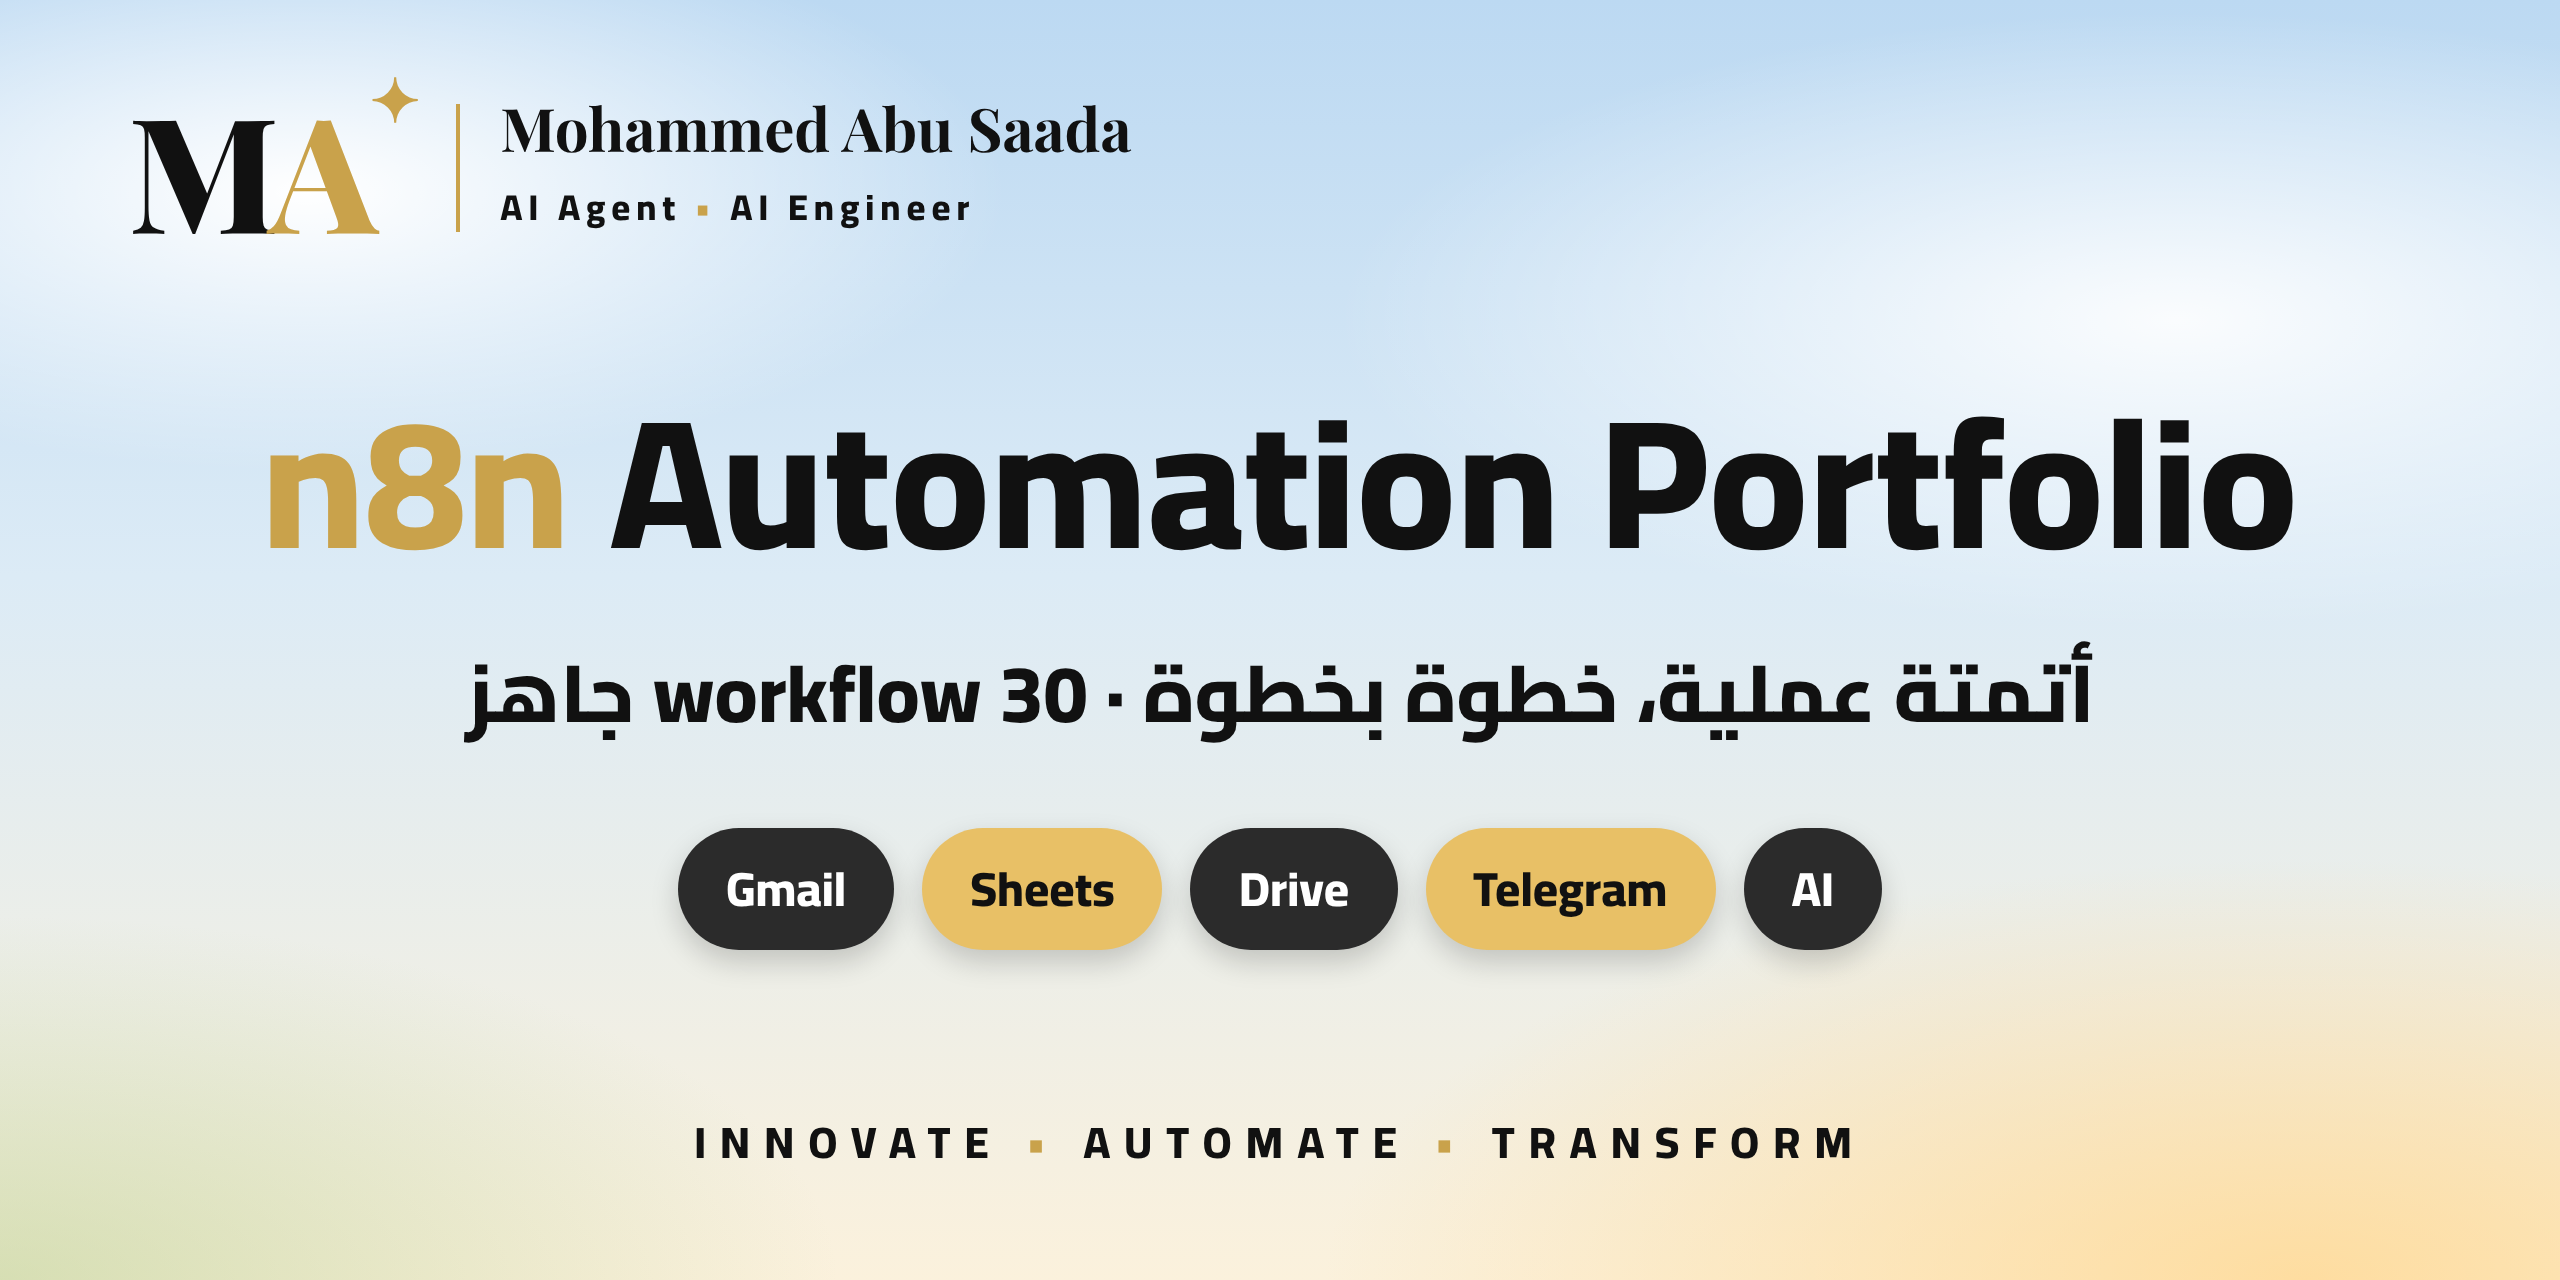
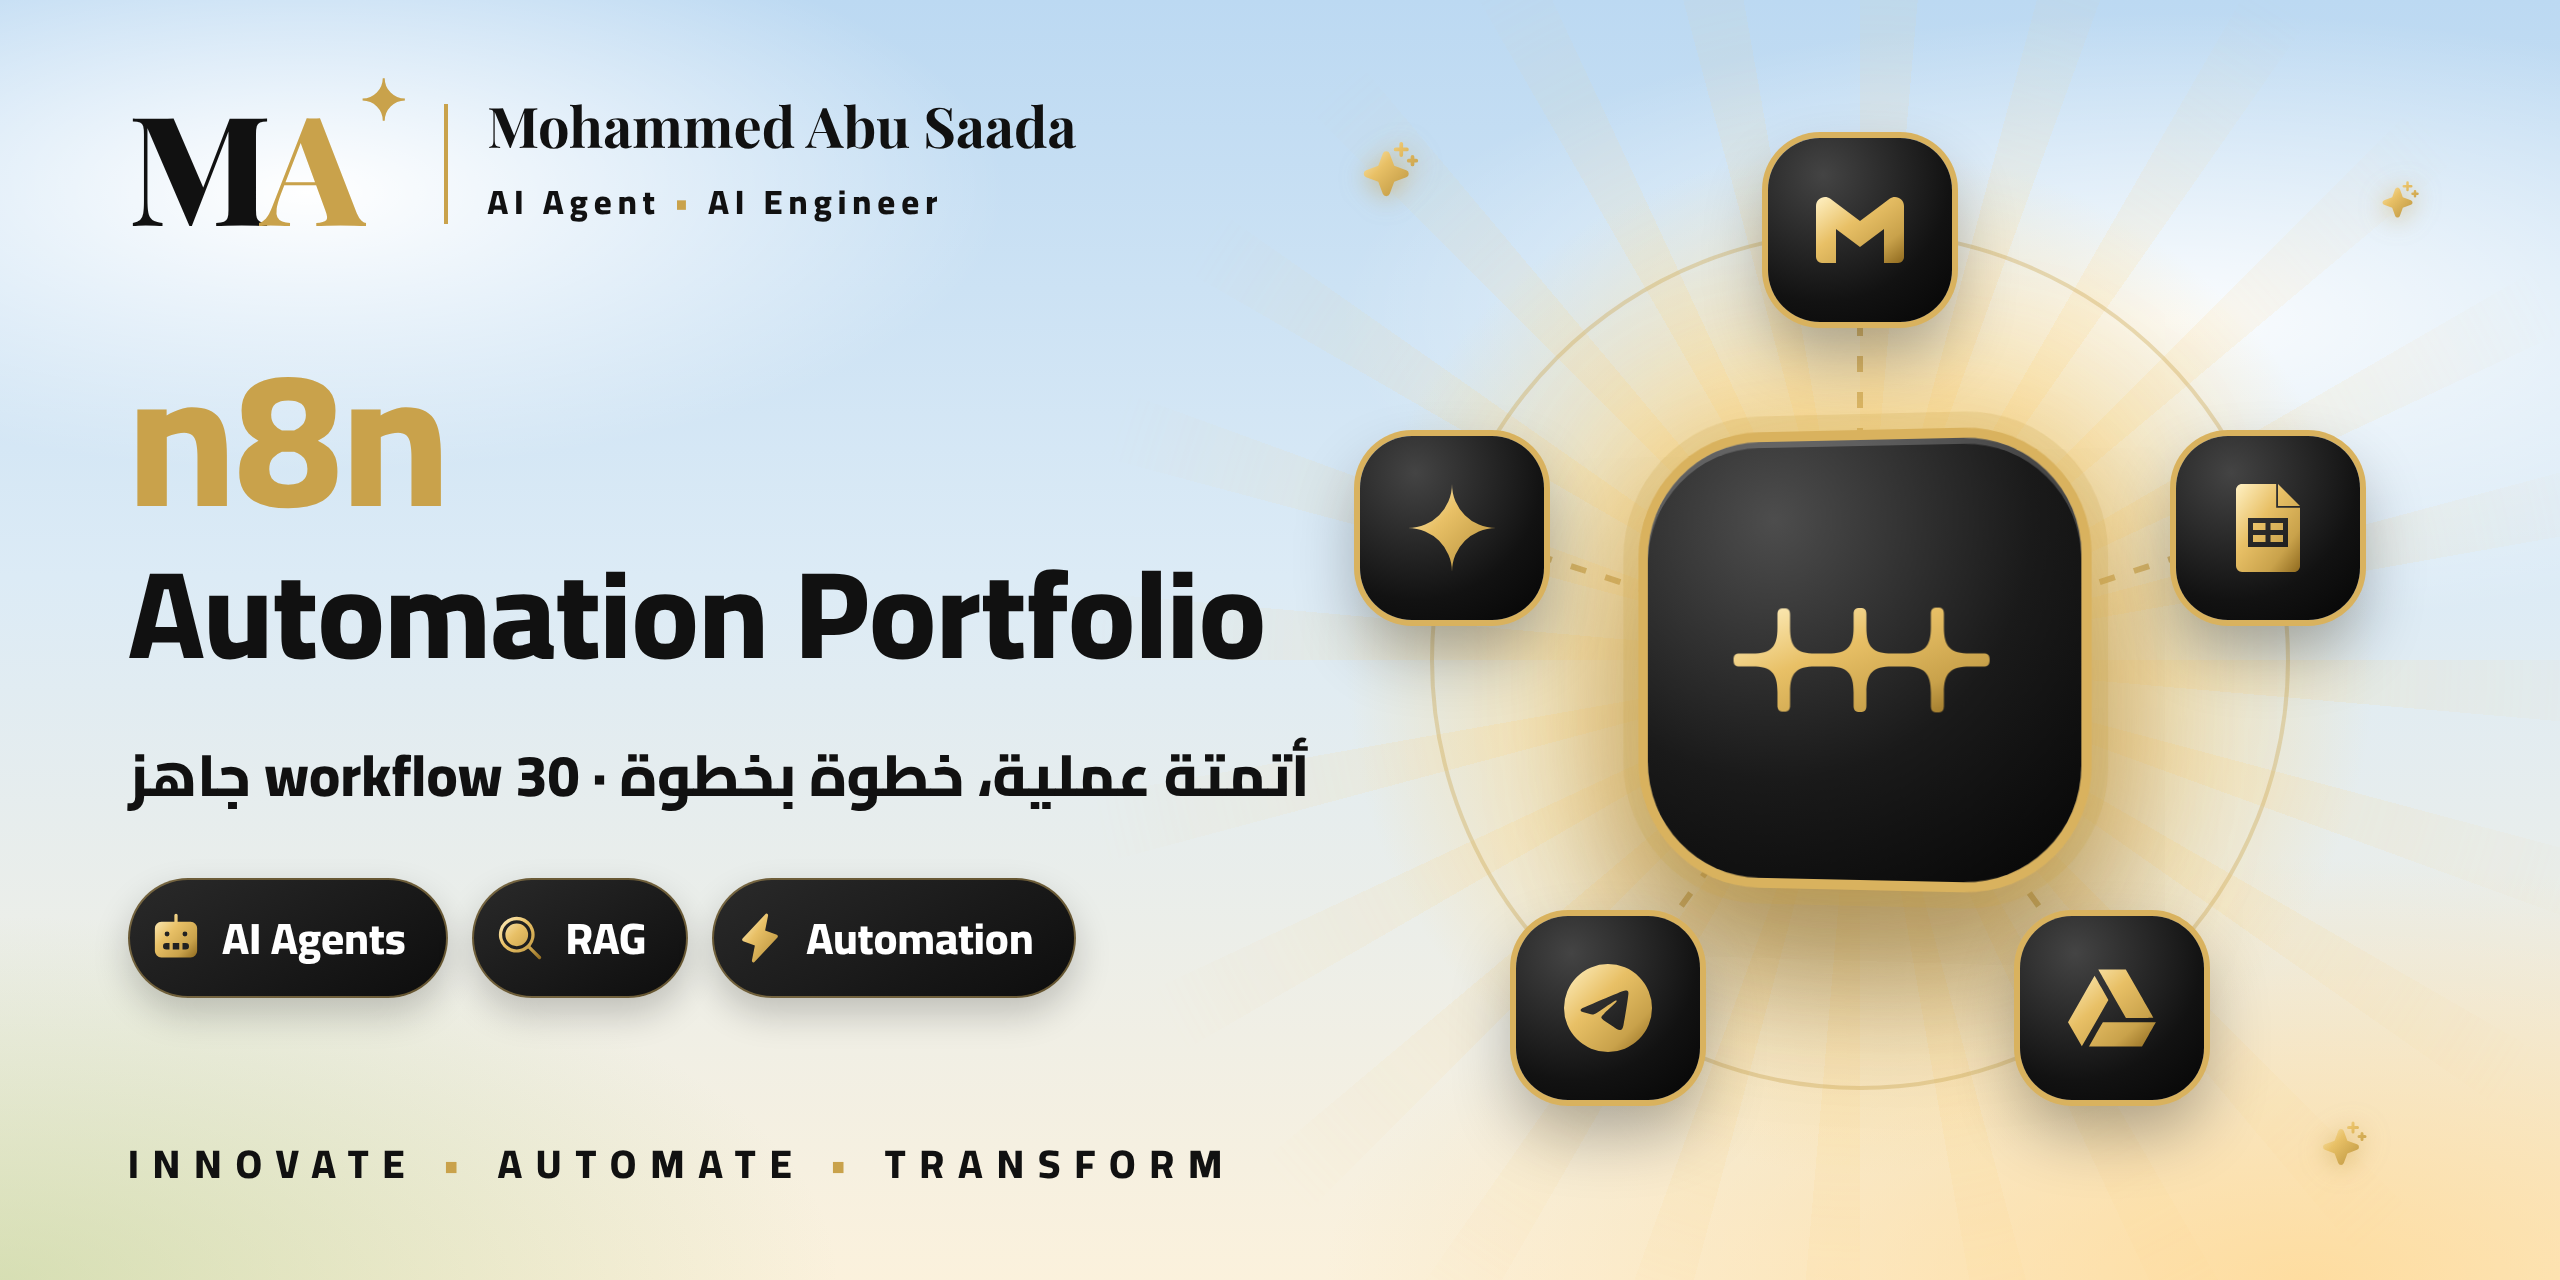
ترقية صور README: أيقونات ذهبية ومربعات لامعة
* Restyle README with brand colors (black and gold), new banner, stats and footer

Claude-Session: https://claude.ai/code/session_01B4v1sV8NWULi4LzHf7RuMU

* Regenerate showcase GIF with brand colors (sky, black, gold) and bundle Cairo font

Claude-Session: https://claude.ai/code/session_01B4v1sV8NWULi4LzHf7RuMU

* Premium brand images for README: glossy n8n hub with service logos, icon stat cards

Add assets/brand/make_brand.js to regenerate banner, stats and footer.

Claude-Session: https://claude.ai/code/session_01B4v1sV8NWULi4LzHf7RuMU

---------

diff --git a/assets/brand/make_brand.js b/assets/brand/make_brand.js
@@ -1,0 +1,98 @@
+// يولّد صور الهوية في README: banner.png و stats.png و footer.png
+// الاستخدام:
+//   FONTS_DIR=<node_modules/@fontsource/> ICONS_DIR=<node_modules/> NODE_PATH=<مسار playwright> node assets/brand/make_brand.js
+// FONTS_DIR: حزم @fontsource/cairo و @fontsource/playfair-display
+// ICONS_DIR: حزم @phosphor-icons/core و simple-icons
+const {chromium}=require('playwright');const fs=require('fs');const path=require('path');
+const OUT=__dirname, FD=process.env.FONTS_DIR, ICONS=process.env.ICONS_DIR;
+const G='#C9A24B', GL='#E8C066';
+const b64=p=>fs.readFileSync(path.join(FD,p)).toString('base64');
+const AR='U+0600-06FF,U+0750-077F,U+FB50-FDFF,U+FE70-FEFF,U+200C-200F',LA='U+0000-05FF,U+2000-206F,U+2190-2BFF';
+const ff=(f,w,p,u)=>`@font-face{font-family:${f};font-weight:${w};src:url(data:font/woff2;base64,${b64(p)});unicode-range:${u}}`;
+
+let GID=0;
+const grad=()=>{const id='g'+(GID++);return [id,`<defs><linearGradient id="${id}" x1="0" y1="0" x2="1" y2="1"><stop offset="0" stop-color="#FFF1C4"/><stop offset=".4" stop-color="#E8C066"/><stop offset=".75" stop-color="#C9A24B"/><stop offset="1" stop-color="#8F6A1F"/></linearGradient></defs>`]};
+// أيقونة Phosphor بتدرّج ذهبي (أو لون محدد)
+function ic(name,size,color='gold',weight='duotone'){
+  let s=fs.readFileSync(path.join(ICONS,'@phosphor-icons/core/assets',weight,`${name}-${weight}.svg`),'utf8');
+  let fill=color,defs='';if(color==='gold'){const [id,d]=grad();fill=`url(#${id})`;defs=d;}
+  s=s.replace('fill="currentColor"',`fill="${fill}" width="${size}" height="${size}"`).replace(/opacity="0.2"/g,'opacity="0.38"');
+  return s.replace(/(<svg[^>]*>)/,`$1${defs}`);
+}
+// شعار من Simple Icons بتدرّج ذهبي (أو لون محدد)
+function logo(name,size,color='gold'){
+  let s=fs.readFileSync(path.join(ICONS,'simple-icons/icons',name+'.svg'),'utf8');
+  let fill=color,defs='';if(color==='gold'){const [id,d]=grad();fill=`url(#${id})`;defs=d;}
+  return s.replace('<svg ',`<svg width="${size}" height="${size}" fill="${fill}" `).replace(/(<svg[^>]*>)/,`$1${defs}`);
+}
+
+const css=[ff('C',400,'cairo/files/cairo-arabic-400-normal.woff2',AR),ff('C',800,'cairo/files/cairo-arabic-800-normal.woff2',AR),ff('C',400,'cairo/files/cairo-latin-400-normal.woff2',LA),ff('C',800,'cairo/files/cairo-latin-800-normal.woff2',LA),ff('P',700,'playfair-display/files/playfair-display-latin-700-normal.woff2',LA),ff('P',800,'playfair-display/files/playfair-display-latin-800-normal.woff2',LA)].join('')+`
+*{box-sizing:border-box;margin:0;padding:0}html,body{overflow:hidden}svg{display:block;flex:none}
+body{font-family:C,sans-serif;color:#111;position:relative;background:
+radial-gradient(ellipse 500px 200px at 12% 15%,#fff 0,rgba(255,255,255,0) 70%),
+radial-gradient(ellipse 600px 220px at 85% 25%,rgba(255,255,255,.9) 0,rgba(255,255,255,0) 70%),
+radial-gradient(ellipse 700px 300px at 90% 100%,rgba(255,214,140,.75) 0,rgba(255,214,140,0) 70%),
+radial-gradient(ellipse 600px 260px at 0% 100%,rgba(170,200,130,.45) 0,rgba(170,200,130,0) 70%),
+linear-gradient(180deg,#bcd9f2 0%,#dcebf6 45%,#fbf1dc 100%)}
+.brand{display:flex;align-items:center;gap:20px;direction:ltr}
+.mono{font-family:P,serif;font-weight:800;font-size:76px;line-height:.9;letter-spacing:-5px;position:relative;padding-right:24px}
+.mono i{position:absolute;right:-2px;top:-12px;font-style:normal;color:${G};font-size:28px;letter-spacing:0}
+.sep{width:2px;height:60px;background:${G}}.nm{font-family:P,serif;font-weight:700;font-size:28px;line-height:1.1}
+.rl{font-weight:800;font-size:17px;letter-spacing:3px;margin-top:6px}.rl b{color:${G}}
+.tag{text-align:center;font-weight:800;letter-spacing:7px;direction:ltr}.tag b{color:${G};margin:0 12px}
+.glossy{background:radial-gradient(circle at 30% 18%,#4d4d4d 0,#1a1a1a 55%,#050505 100%);
+ box-shadow:0 0 0 5px #D9B25E,0 0 0 13px rgba(201,162,75,.22),0 0 70px 16px rgba(255,200,90,.42),0 40px 70px rgba(30,20,5,.5),inset 0 3px 0 rgba(255,255,255,.2)}
+.mini{background:radial-gradient(circle at 30% 20%,#444,#121212 65%,#050505);box-shadow:0 0 0 3px #D9B25E,0 16px 32px rgba(0,0,0,.3)}
+.rays{position:absolute;border-radius:50%;background:repeating-conic-gradient(from 0deg,rgba(255,214,130,.34) 0deg 5deg,rgba(255,255,255,0) 5deg 15deg);
+ -webkit-mask:radial-gradient(circle,#000 0,rgba(0,0,0,.55) 28%,transparent 60%);mask:radial-gradient(circle,#000 0,rgba(0,0,0,.55) 28%,transparent 60%)}
+.halo{position:absolute;border-radius:50%;background:radial-gradient(circle,rgba(255,226,150,1) 0,rgba(255,215,130,.55) 38%,rgba(255,255,255,0) 70%)}
+.orbit{position:absolute;border-radius:50%;border:2px solid rgba(201,162,75,.35)}
+.spk{position:absolute;filter:drop-shadow(0 2px 6px rgba(201,162,75,.6))}`;
+
+const brand=`<div class="brand"><div class="mono"><span>M</span><span style="color:${G}">A</span><i>✦</i></div><div class="sep"></div><div><div class="nm">Mohammed Abu Saada</div><div class="rl">AI Agent <b>•</b> AI Engineer</div></div></div>`;
+
+// ── البانر ──
+const services=[['gmail','Gmail'],['googlesheets','Sheets'],['googledrive','Drive'],['telegram','Telegram'],['googlegemini','Gemini']];
+const sc={x:930,y:330}; // مركز المشهد
+const ring=services.map(([n],i)=>{const a=-Math.PI/2+i*2*Math.PI/services.length,r=215;
+  return `<div class="mini" style="position:absolute;left:${sc.x+r*Math.cos(a)-46}px;top:${sc.y+r*Math.sin(a)-46}px;width:92px;height:92px;border-radius:26px;display:flex;align-items:center;justify-content:center">${logo(n,44)}</div>`}).join('');
+const lines=services.map((_,i)=>{const a=-Math.PI/2+i*2*Math.PI/services.length,r=215;
+  return `<line x1="${sc.x}" y1="${sc.y}" x2="${sc.x+r*Math.cos(a)}" y2="${sc.y+r*Math.sin(a)}" stroke="${G}" stroke-width="3" stroke-dasharray="8 10" opacity=".7"/>`}).join('');
+const banner=`<div style="position:absolute;inset:0">
+<div class="rays" style="left:${sc.x-460}px;top:${sc.y-460}px;width:920px;height:920px"></div>
+<div class="halo" style="left:${sc.x-260}px;top:${sc.y-260}px;width:520px;height:520px"></div>
+<div class="orbit" style="left:${sc.x-215}px;top:${sc.y-215}px;width:430px;height:430px"></div>
+<svg width="1280" height="640" style="position:absolute;inset:0">${lines}</svg>
+<div class="glossy" style="position:absolute;left:${sc.x-110}px;top:${sc.y-110}px;width:220px;height:220px;border-radius:58px;display:flex;align-items:center;justify-content:center;transform:perspective(900px) rotateY(-10deg)">${logo('n8n',130)}</div>
+${ring}
+<div class="spk" style="left:${sc.x-250}px;top:70px">${ic('sparkle',30,'gold','fill')}</div>
+<div class="spk" style="left:${sc.x+230}px;top:560px">${ic('sparkle',24,'gold','fill')}</div>
+<div class="spk" style="left:${sc.x+260}px;top:90px">${ic('sparkle',20,'gold','fill')}</div>
+<div style="position:absolute;left:64px;top:48px">${brand}</div>
+<div style="position:absolute;left:64px;top:170px;width:700px">
+ <div style="font-weight:800;font-size:96px;line-height:1;direction:ltr"><span style="color:${G}">n8n</span></div>
+ <div style="font-weight:800;font-size:62px;line-height:1.1;direction:ltr;margin-top:6px">Automation Portfolio</div>
+ <div dir="rtl" style="font-weight:800;font-size:29px;margin-top:20px;white-space:nowrap;display:inline-block">أتمتة عملية، خطوة بخطوة · 30 workflow جاهز</div>
+ <div style="display:flex;gap:12px;margin-top:24px">${['AI Agents','RAG','Automation'].map((t,i)=>`<span style="display:flex;align-items:center;gap:10px;font-weight:800;font-size:22px;padding:8px 20px 8px 10px;border-radius:99px;background:linear-gradient(150deg,#2a2a2a,#0d0d0d);color:#fff;border:1px solid rgba(232,192,102,.4);box-shadow:0 8px 18px rgba(0,0,0,.2)">${ic(['robot','magnifying-glass','lightning'][i],26,'gold','fill')}${t}</span>`).join('')}</div>
+</div>
+<div class="tag" style="position:absolute;left:64px;bottom:40px;font-size:20px;text-align:left">INNOVATE<b>•</b>AUTOMATE<b>•</b>TRANSFORM</div></div>`;
+
+// ── الإحصائيات ──
+const stats=`<div dir="rtl" style="position:absolute;inset:0;padding:36px 44px;display:grid;grid-template-columns:repeat(4,1fr);gap:22px">
+${[['30','مشروع جاهز','stack'],['10+','خدمة متصلة','plugs-connected'],['AI','OpenAI · Gemini','brain'],['1-Click','استيراد وتشغيل','cursor-click']].map(([n,t,icn],i)=>{const gold=i%2==1;
+return `<div style="position:relative;border-radius:26px;padding:24px 26px;display:flex;flex-direction:column;align-items:flex-start;justify-content:space-between;
+${gold?'background:linear-gradient(150deg,#F6DE9C 0%,#E8C066 45%,#D4AE57 100%);color:#111;border:1px solid rgba(255,255,255,.6)':'background:linear-gradient(150deg,#363636 0%,#1c1c1c 60%,#111 100%);color:#fff;border:1px solid rgba(232,192,102,.3)'};box-shadow:0 18px 40px rgba(30,22,5,.28)">
+<div class="mini" style="width:74px;height:74px;border-radius:22px;display:flex;align-items:center;justify-content:center">${ic(icn,42,'gold','duotone')}</div>
+<div><div style="font-weight:800;font-size:60px;line-height:1.05;direction:ltr;text-align:right;${gold?'':`color:${GL}`}">${n}</div><div style="font-weight:800;font-size:24px;margin-top:4px">${t}</div></div></div>`}).join('')}</div>`;
+
+// ── التذييل ──
+const footer=`<div style="position:absolute;inset:0;display:flex;flex-direction:column;align-items:center;justify-content:center;gap:20px">
+<div class="halo" style="left:390px;top:-150px;width:500px;height:500px;opacity:.6"></div>
+<div style="position:relative">${brand}</div><div class="tag" style="position:relative;font-size:21px">INNOVATE<b>•</b>AUTOMATE<b>•</b>TRANSFORM</div></div>`;
+
+const pages={banner:[1280,640,banner],stats:[1280,300,stats],footer:[1280,220,footer]};
+(async()=>{const br=await chromium.launch();
+for(const [n,[w,h,body]] of Object.entries(pages)){const pg=await br.newPage({viewport:{width:w,height:h},deviceScaleFactor:2});
+ await pg.setContent(`<html><style>${css}</style><body style="width:${w}px;height:${h}px">${body}</body></html>`);await pg.evaluate(()=>document.fonts.ready);
+ await pg.screenshot({path:path.join(OUT,n+'.png')});await pg.close();}
+await br.close();})();
